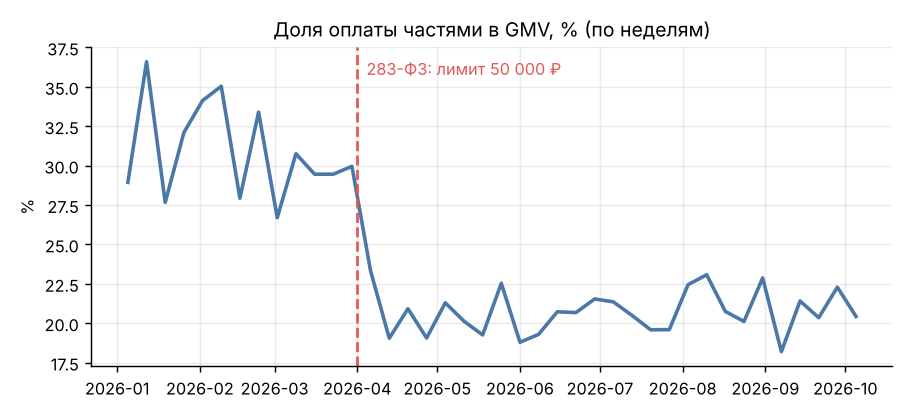
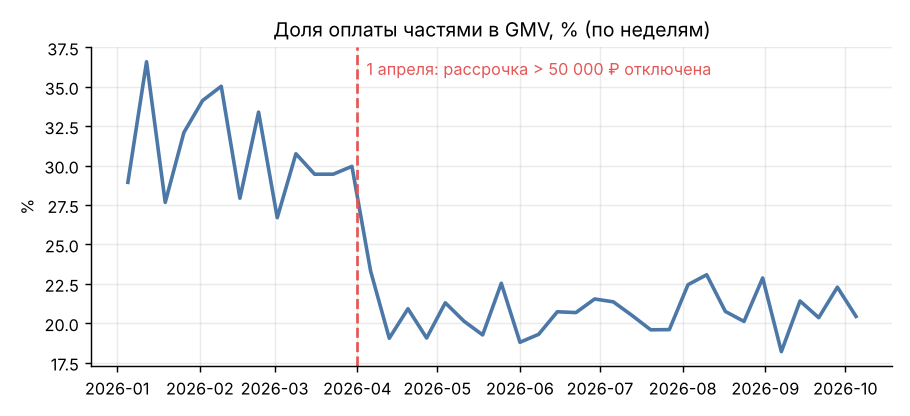
Derive regulation losses from the DiD estimates; reproducible A/B output
- lost BNPL / marketplace GMV and the switched share now come from the same
  DiD coefficients (50.4M / 8.4M, 83%) instead of a flat pre-period average
  that ignored the service's growth
- describe 283-FZ accurately: 50 000 RUB is the credit-bureau reporting
  threshold; the data models a service that stopped offering BNPL above it
- A/B SQL is ordered, so bootstrap CIs no longer change between runs
- DAU averaged over the same window as MAU; Russian month labels; p<0,001

Changed region(s): [[0.4, 0.1562, 0.8, 0.1875]]

diff --git a/src/regulation_impact.py b/src/regulation_impact.py
@@ -1,10 +1,14 @@
 """
-Как лимит 50 000 ₽ из 283-ФЗ (с 1 апреля 2026) повлиял на BNPL?
+Сколько стоило отключение рассрочки для корзин дороже 50 000 ₽ (с 1 апреля 2026)?
+
+По 283-ФЗ с 1 апреля 2026 сведения о рассрочках выше 50 000 ₽ передаются в бюро кредитных историй.
+В данных заложен сценарий, где сервис в ответ перестал предлагать рассрочку для таких корзин.
 
 Наивное «было/стало» не годится: сервис растёт, и общий BNPL GMV после апреля всё равно вырос.
 Поэтому используем difference-in-differences:
   * «обработанная» группа — корзины > 50 000 ₽ (им перестали предлагать рассрочку);
-  * контроль — корзины 20–50 000 ₽ (похожие покупки, лимит их не затронул).
+  * контроль — корзины 20–50 000 ₽ (похожие покупки, изменение их не затронуло).
+Корзины дороже 150 000 ₽ не берём: их мало, и они не похожи на контрольную группу.
 Метрика — доля чекаутов, завершившихся покупкой (любым способом), и доля BNPL.
 Плюс оценка потерянного BNPL GMV в рублях.
 """
@@ -51,12 +55,13 @@ def main() -> dict:
 
     g = df.groupby(["above_cap", "post"])[["converted", "bnpl"]].mean().round(4)
 
-    # потерянный BNPL GMV: сколько BNPL-оборота приходилось на корзины > 50k до закона (в неделю)
-    weekly_pre = df[(df.post == 0) & (df.above_cap == 1) & (df.bnpl == 1)].groupby("week").amount.sum()
+    # Потери считаем из тех же DiD-оценок: умножаем эффект на оборот корзин > 50k после изменения.
+    # Наивное «было в неделю × недели» не годится — сервис растёт, корзин стало больше.
     weeks_post = df[df.post == 1].week.nunique()
-    lost_bnpl_gmv = float(weekly_pre.mean() * weeks_post)
-    # часть этих покупок всё равно состоялась картой — реально «потерянный» GMV маркетплейса меньше
-    lost_orders_gmv = float(-res["converted"]["did"] * df[(df.post == 1) & (df.above_cap == 1)].amount.sum())
+    exposed_gmv = float(df[(df.post == 1) & (df.above_cap == 1)].amount.sum())
+    lost_bnpl_gmv = -res["bnpl"]["did"] * exposed_gmv          # оборот, который ушёл из рассрочки
+    lost_orders_gmv = -res["converted"]["did"] * exposed_gmv   # оборот, который маркетплейс потерял совсем
+    switched_share = 1 - res["converted"]["did"] / res["bnpl"]["did"]
 
     # график: конверсия чекаута в покупку по неделям, две группы
     wk = df.groupby(["week", "above_cap"]).agg(conv=("converted", "mean"), bnpl=("bnpl", "mean")).reset_index()
@@ -79,8 +84,10 @@ def main() -> dict:
         group_means={f"above_cap={a},post={p}": v for (a, p), v in g.to_dict("index").items()},
         did=res,
         weeks_post=int(weeks_post),
+        exposed_gmv_rub=round(exposed_gmv),
         lost_bnpl_gmv_rub=round(lost_bnpl_gmv),
         lost_marketplace_gmv_rub=round(lost_orders_gmv),
+        switched_to_other_payment_share=round(switched_share, 3),
     )
     (ROOT / "reports" / "regulation_summary.json").write_text(json.dumps(out, ensure_ascii=False, indent=2))
     print(json.dumps(out, ensure_ascii=False, indent=2))

diff --git a/src/marts.py b/src/marts.py
@@ -33,7 +33,7 @@ def main() -> dict:
     fig, ax = plt.subplots(figsize=(7, 3.2))
     ax.plot(w.index, w.bnpl_gmv / w.gmv * 100, color=COLORS["main"], lw=2)
     ax.axvline(law, color=COLORS["accent"], ls="--")
-    ax.text(law, ax.get_ylim()[1] * 0.98, "  283-ФЗ: лимит 50 000 ₽", color=COLORS["accent"], va="top")
+    ax.text(law, ax.get_ylim()[1] * 0.98, "  1 апреля: рассрочка > 50 000 ₽ отключена", color=COLORS["accent"], va="top")
     ax.set(title="Доля оплаты частями в GMV, % (по неделям)", ylabel="%")
     fig.tight_layout(); fig.savefig(FIG / "bnpl_share.png"); plt.close(fig)
 
@@ -67,7 +67,8 @@ def main() -> dict:
     e = econ.copy()
     per = lambda c: e[c] / e.bnpl_orders
     fig, ax = plt.subplots(figsize=(7, 3.4))
-    x = pd.to_datetime(e.vintage).dt.strftime("%b")
+    ru_months = ["янв", "фев", "мар", "апр", "май", "июн", "июл", "авг", "сен", "окт", "ноя", "дек"]
+    x = [ru_months[m - 1] for m in pd.to_datetime(e.vintage).dt.month]
     ax.bar(x, per("revenue_merchant_fee"), color=COLORS["green"], label="комиссия мерчанта")
     bottom = np.zeros(len(e))
     for c, col, lab in [("cost_funding", "#F2CF5B", "фондирование"), ("cost_credit_losses", COLORS["accent"], "кредитные потери 90+"),
@@ -80,14 +81,16 @@ def main() -> dict:
     first_young = int((~e.matured).idxmax()) if (~e.matured).any() else None
     if first_young is not None:
         ax.axvspan(first_young - 0.5, len(e) - 0.5, color="k", alpha=0.06)
-        ax.text(first_young - 0.4, ax.get_ylim()[1] * 0.92, "винтажи не созрели:\nпотери 90+ ещё впереди", fontsize=7)
+        ax.text(len(e) - 0.6, ax.get_ylim()[0] * 0.55, "займы ещё не созрели:\nпотери 90+ впереди", fontsize=7,
+                ha="right", va="center", color=COLORS["grey"])
     ax.set(title="Юнит-экономика на один BNPL-заказ, ₽ (по месяцу выдачи)", ylabel="₽ на заказ")
     ax.legend(frameon=False, fontsize=7, ncol=3, loc="lower left")
     fig.tight_layout(); fig.savefig(FIG / "unit_economics.png"); plt.close(fig)
 
     m = econ[econ.matured]
     summary = dict(
-        avg_dau=int(daily.dau.mean()), avg_mau=int(daily.mau.iloc[30:].mean()),
+        # первые 30 дней MAU ещё «набирается», поэтому все три показателя считаем без них
+        avg_dau=int(daily.dau.iloc[30:].mean()), avg_mau=int(daily.mau.iloc[30:].mean()),
         stickiness=round(float((daily.dau / daily.mau).iloc[30:].mean()), 3),
         funnel=dict(cr_offer=round(tot.offer_shown / tot.checkout, 3), cr_select=round(tot.selected / tot.offer_shown, 3),
                     approval=round(tot.approved / tot.selected, 3), checkout_to_bnpl=round(tot.approved / tot.checkout, 3)),

diff --git a/src/generate_data.py b/src/generate_data.py
@@ -3,8 +3,9 @@
 Период: 1 января — 30 сентября 2026, срез на 15 октября 2026.
 
 Что заложено в данные (и что потом должен «найти» анализ):
-  * 1 апреля 2026 вступил в силу 283-ФЗ: BNPL-сервисы под надзором ЦБ, лимит покупки частями 50 000 ₽.
-    После этой даты рассрочка не предлагается для корзин > 50 000 ₽.
+  * 1 апреля 2026 вступил в силу 283-ФЗ: BNPL-сервисы под надзором ЦБ, а сведения о рассрочках
+    выше 50 000 ₽ передаются в бюро кредитных историй. Сценарий: после этой даты сервис
+    перестаёт предлагать рассрочку для корзин дороже 50 000 ₽.
   * 3–30 августа 2026 — A/B-тест «Сплит на карточке товара»
     (показываем «4 × 2 490 ₽» прямо на карточке, а не только на чекауте).
   * 4 платежа раз в 2 недели, первый — сразу при покупке. Часть клиентов уходит в просрочку.
@@ -66,7 +67,7 @@ def main(n_users: int, seed: int, out: Path) -> None:
     s_user = np.repeat(uid, k)
     s_day = rng.integers(0, days, len(s_user))
     s_ts = START + pd.to_timedelta(s_day, "D") + pd.to_timedelta(rng.uniform(7, 24, len(s_user)) * 3600, "s")
-    # сезонность: в выходные и в марте/сентябре активность выше (часть сессий просто отбрасываем)
+    # в выходные активность выше: часть будних сессий отбрасываем
     keep = rng.random(len(s_user)) < np.where(s_ts.dayofweek >= 5, 1.0, 0.85)
     keep &= s_ts >= signup[s_user]
     s_user, s_ts = s_user[keep], s_ts[keep]
@@ -84,7 +85,7 @@ def main(n_users: int, seed: int, out: Path) -> None:
     p_checkout = sigmoid(-1.75 - 0.08 * np.log(amount / 3000) + 0.05 * treat)
     checkout = rng.random(n_s) < p_checkout
 
-    # предложение BNPL на чекауте: всегда до закона; после — только если корзина ≤ 50 000 ₽
+    # предложение BNPL на чекауте: всегда до 1 апреля; после — только если корзина ≤ 50 000 ₽
     offered = checkout & ((s_ts < LAW_DATE) | (amount <= CAP))
     p_select = sigmoid(-1.25 + 0.38 * np.log(amount / 5000) + bnpl_affinity[s_user]
                        - 0.015 * (age[s_user] - 34) + 0.15 * treat)

diff --git a/src/ab_test.py b/src/ab_test.py
@@ -71,6 +71,7 @@ LEFT JOIN m USING (user_id)
 LEFT JOIN pre p USING (user_id)
 LEFT JOIN pre_sessions s USING (user_id)
 LEFT JOIN fpd f USING (user_id)
+ORDER BY u.user_id
 """
 
 
@@ -200,7 +201,8 @@ def main() -> dict:
         mid = b["rel_lift"] * 100
         color = COLORS["green"] if lo > 0 and i < 3 else (COLORS["accent"] if i == 3 and lo > 0 else COLORS["grey"])
         ax.errorbar(mid, i, xerr=[[mid - lo], [hi - mid]], fmt="o", color=color, capsize=4, lw=2)
-        ax.text(hi + 1, i, f"{mid:+.1f}%  (p={b['p_value']:.3f})", va="center", fontsize=8)
+        p_txt = "p<0,001" if b["p_value"] < 0.001 else f"p={b['p_value']:.3f}".replace(".", ",")
+        ax.text(hi + 1, i, f"{mid:+.1f}%  ({p_txt})".replace(".", ","), va="center", fontsize=8)
     ax.axvline(0, color="k", lw=0.8)
     ax.set_yticks(range(len(labels)), labels); ax.invert_yaxis()
     ax.set(xlabel="относительный эффект, % (95% ДИ)", title="Итоги A/B «Сплит на карточке товара»")
